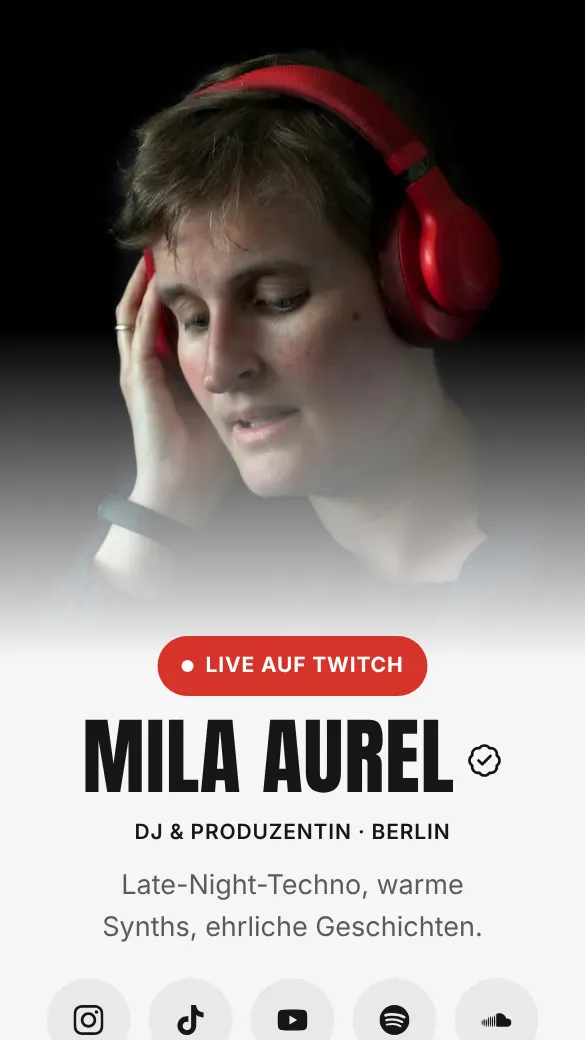
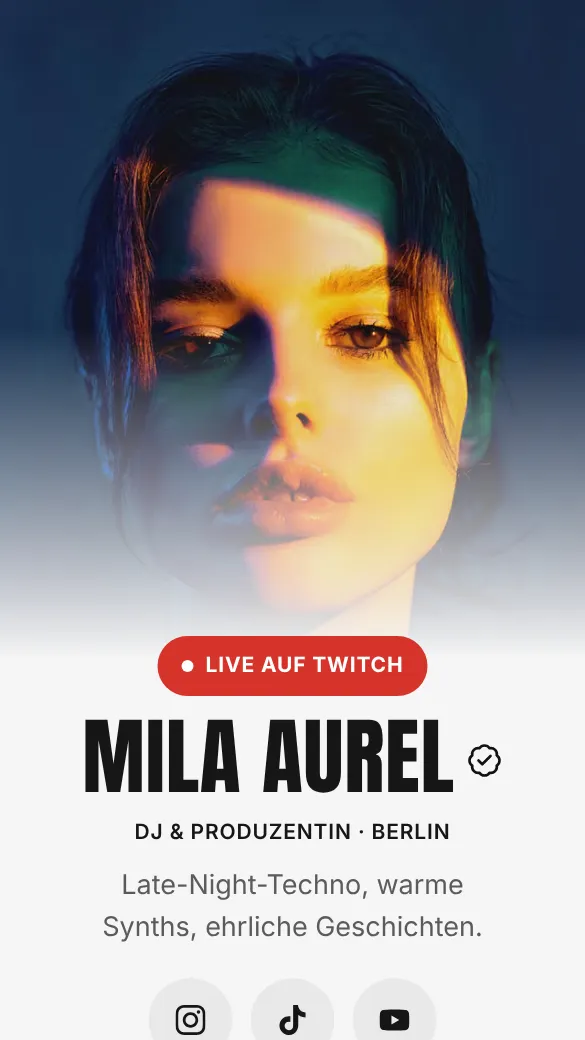
feat(web): give the sample creator Mila Aurel a new licensed portrait
The founder found the old sample photo ugly: a person in red headphones holding their head.
Every template preview in the dashboard's Design screen shows this sample, so it is the first
face a new creator sees there.

- mila-hero, mila-avatar and short-3: a gel-lit portrait by Igor Rand (Unsplash License,
  kQxE3QzIlmw), cut in place with the same names and sizes; mila-wide: a teal and magenta
  frame by Igor Rand (3U7tctomfx4). No upscaling, no colour change.
- gear-headphones: black over-ear headphones alone on a dark ground, with no face and no
  lettering (Jason Leung, xR4JHzr69Og). Its alt text said red, so it now says black in de,
  en and ar.
- CREDITS.md names the new photographers. No file uses the old photo any more.
- The ten link-in-bio template previews are recaptured. The seven portfolio previews stay
  byte-equal.

Claude-Session: https://claude.ai/code/session_01LCF9gwiCbq2xN4kMBWjZZw

diff --git a/apps/web/src/assets/samples/CREDITS.md b/apps/web/src/assets/samples/CREDITS.md
@@ -5,7 +5,9 @@ and must be replaced with real creator content (with permission) before any publ
 
 | File | Source | License |
 |---|---|---|
-| mila-avatar.jpg, mila-hero.jpg, mila-wide.jpg, short-3.jpg, gear-headphones.jpg | Photo by Johanneke Kroesbergen-Kamps on Unsplash (`photo-1650379058468`) | Unsplash License |
+| mila-avatar.jpg, mila-hero.jpg, short-3.jpg | Photo by Igor Rand on Unsplash (photo-1653443658457, kQxE3QzIlmw) | Unsplash License |
+| mila-wide.jpg | Photo by Igor Rand on Unsplash (photo-1653443667522, 3U7tctomfx4) | Unsplash License |
+| gear-headphones.jpg | Photo by Jason Leung on Unsplash (photo-1599669454699, xR4JHzr69Og) | Unsplash License |
 | event-berlin.jpg, short-1.jpg | Photo by Marcel Strauß on Unsplash (`photo-1758550445758`) | Unsplash License |
 | event-hamburg.jpg, short-2.jpg, video-live.jpg | Photo by Adrià Sánchez Roqué on Unsplash (`photo-1666289186874`) | Unsplash License |
 | nour-avatar.jpg, nour-hero.jpg | Photo by Vitaly Gariev on Unsplash (`photo-1758600435719`) | Unsplash License |
